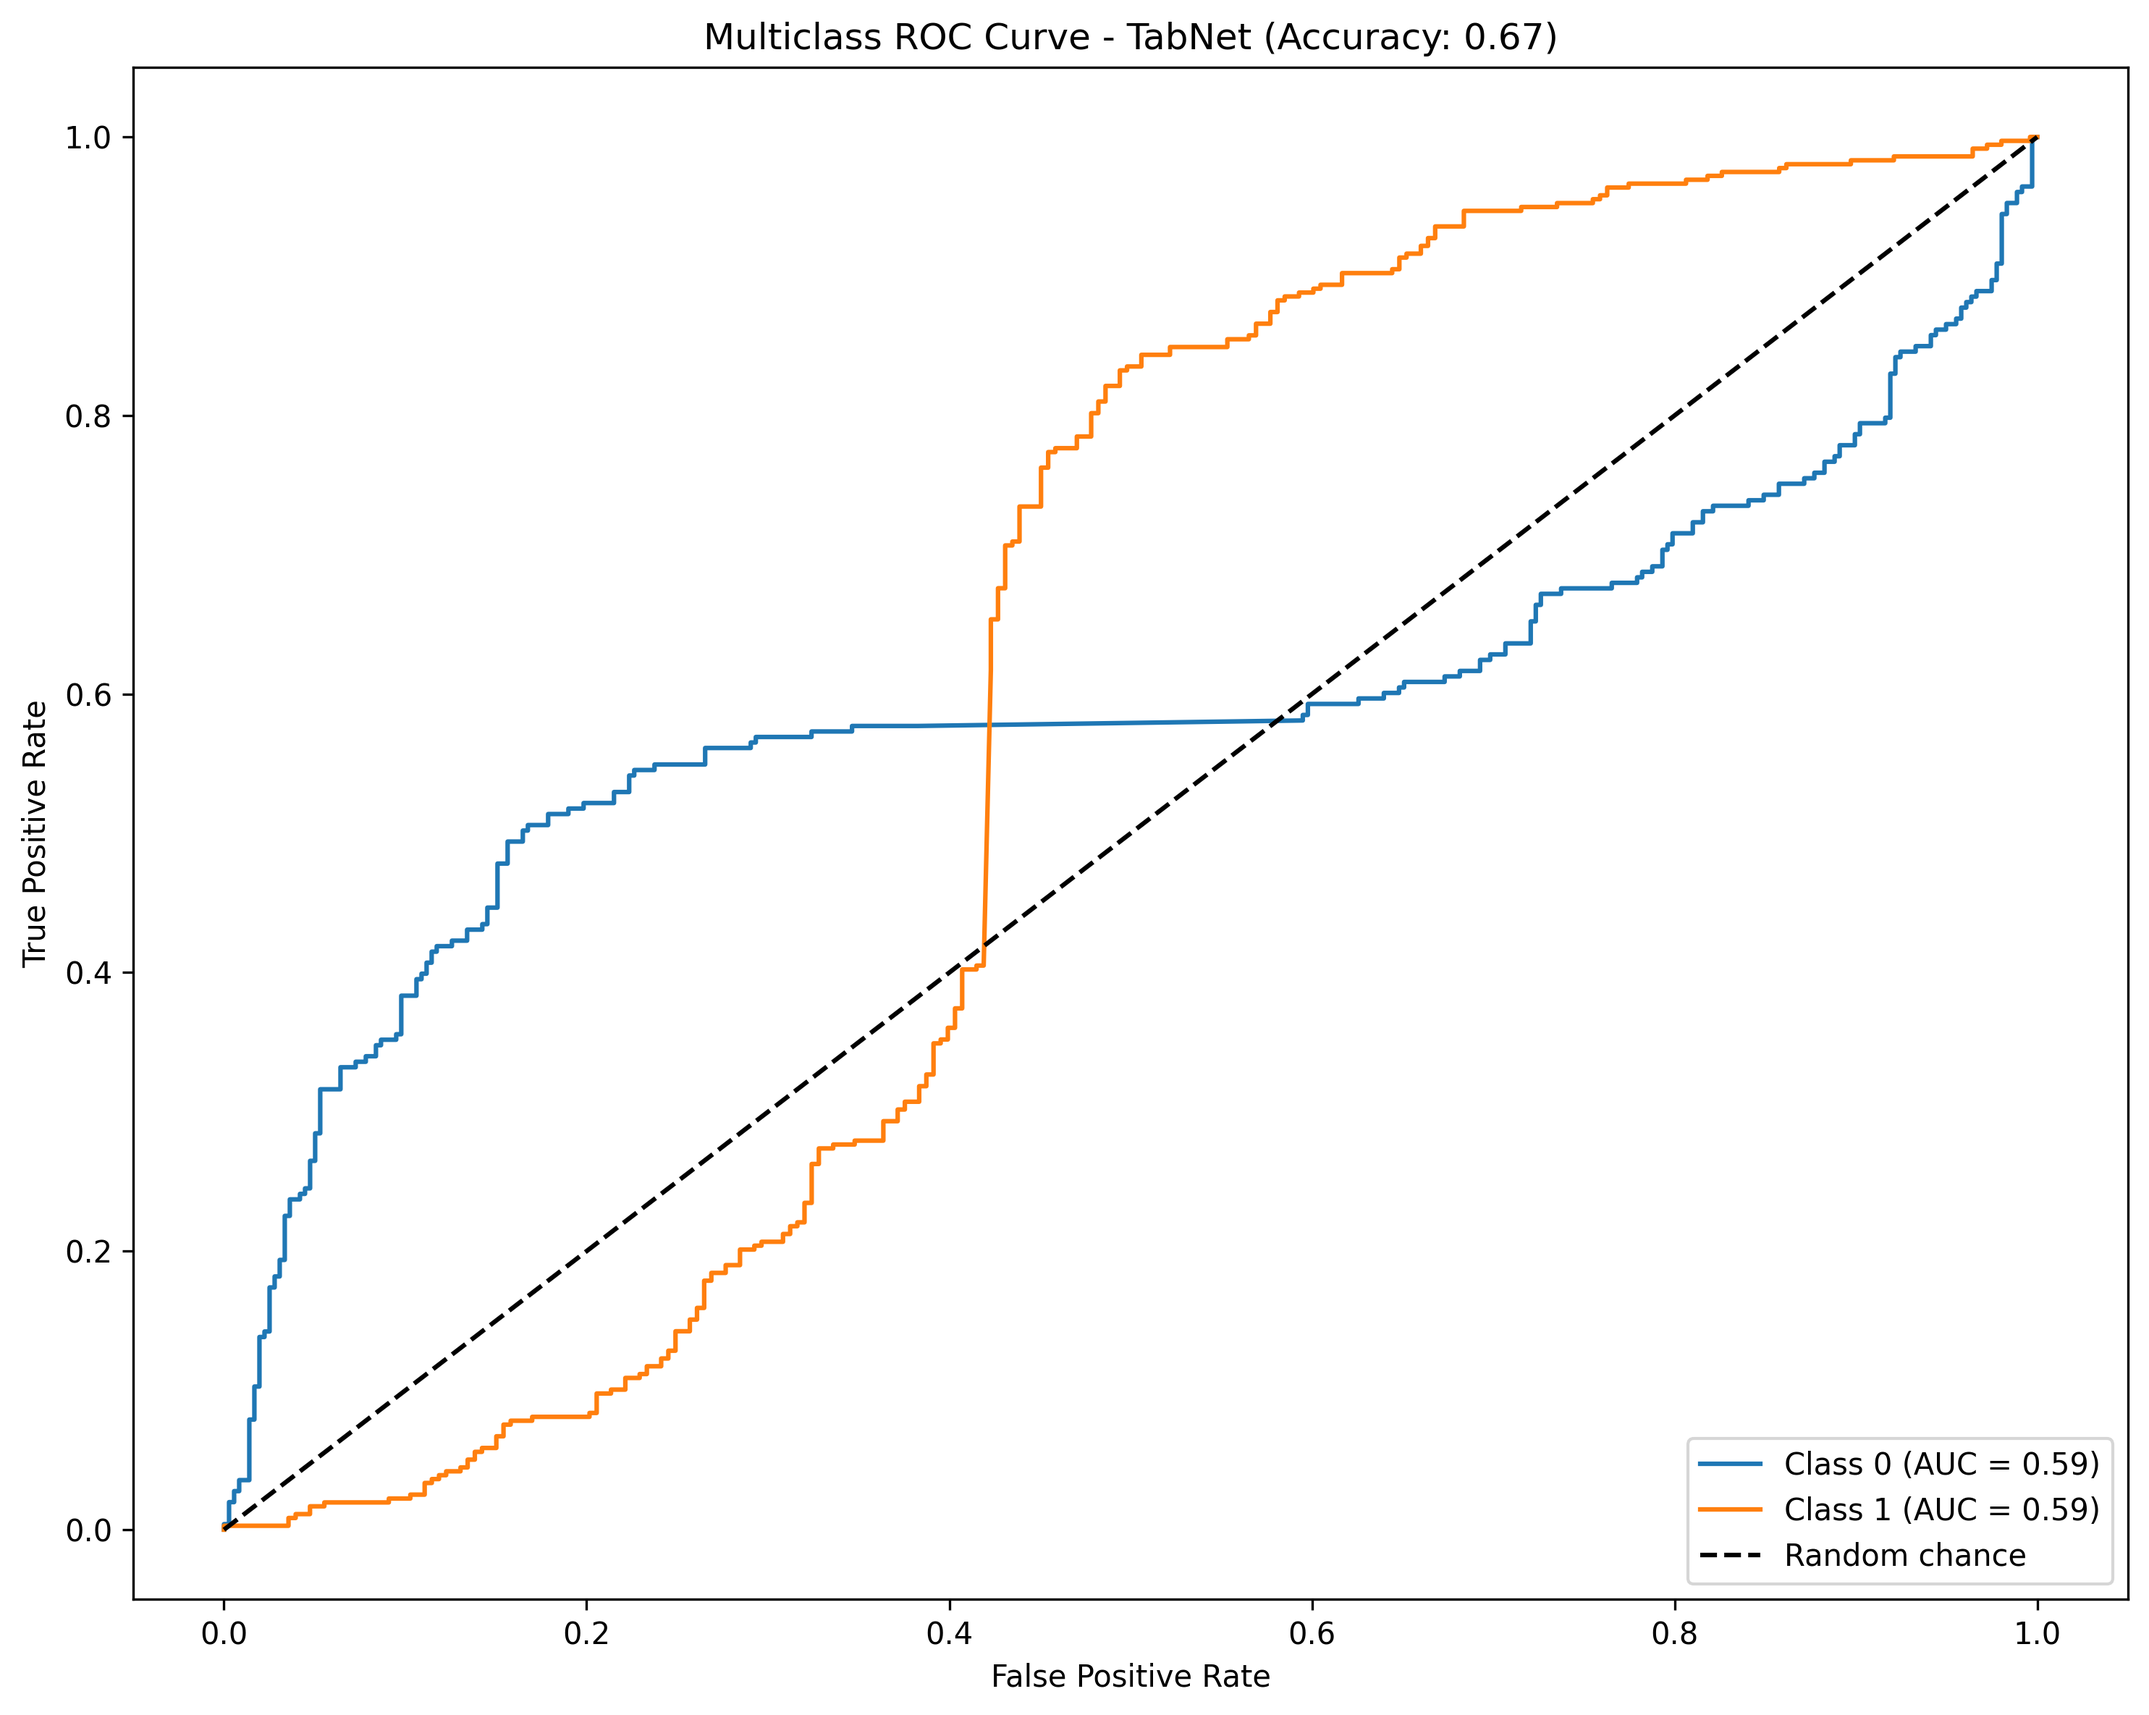
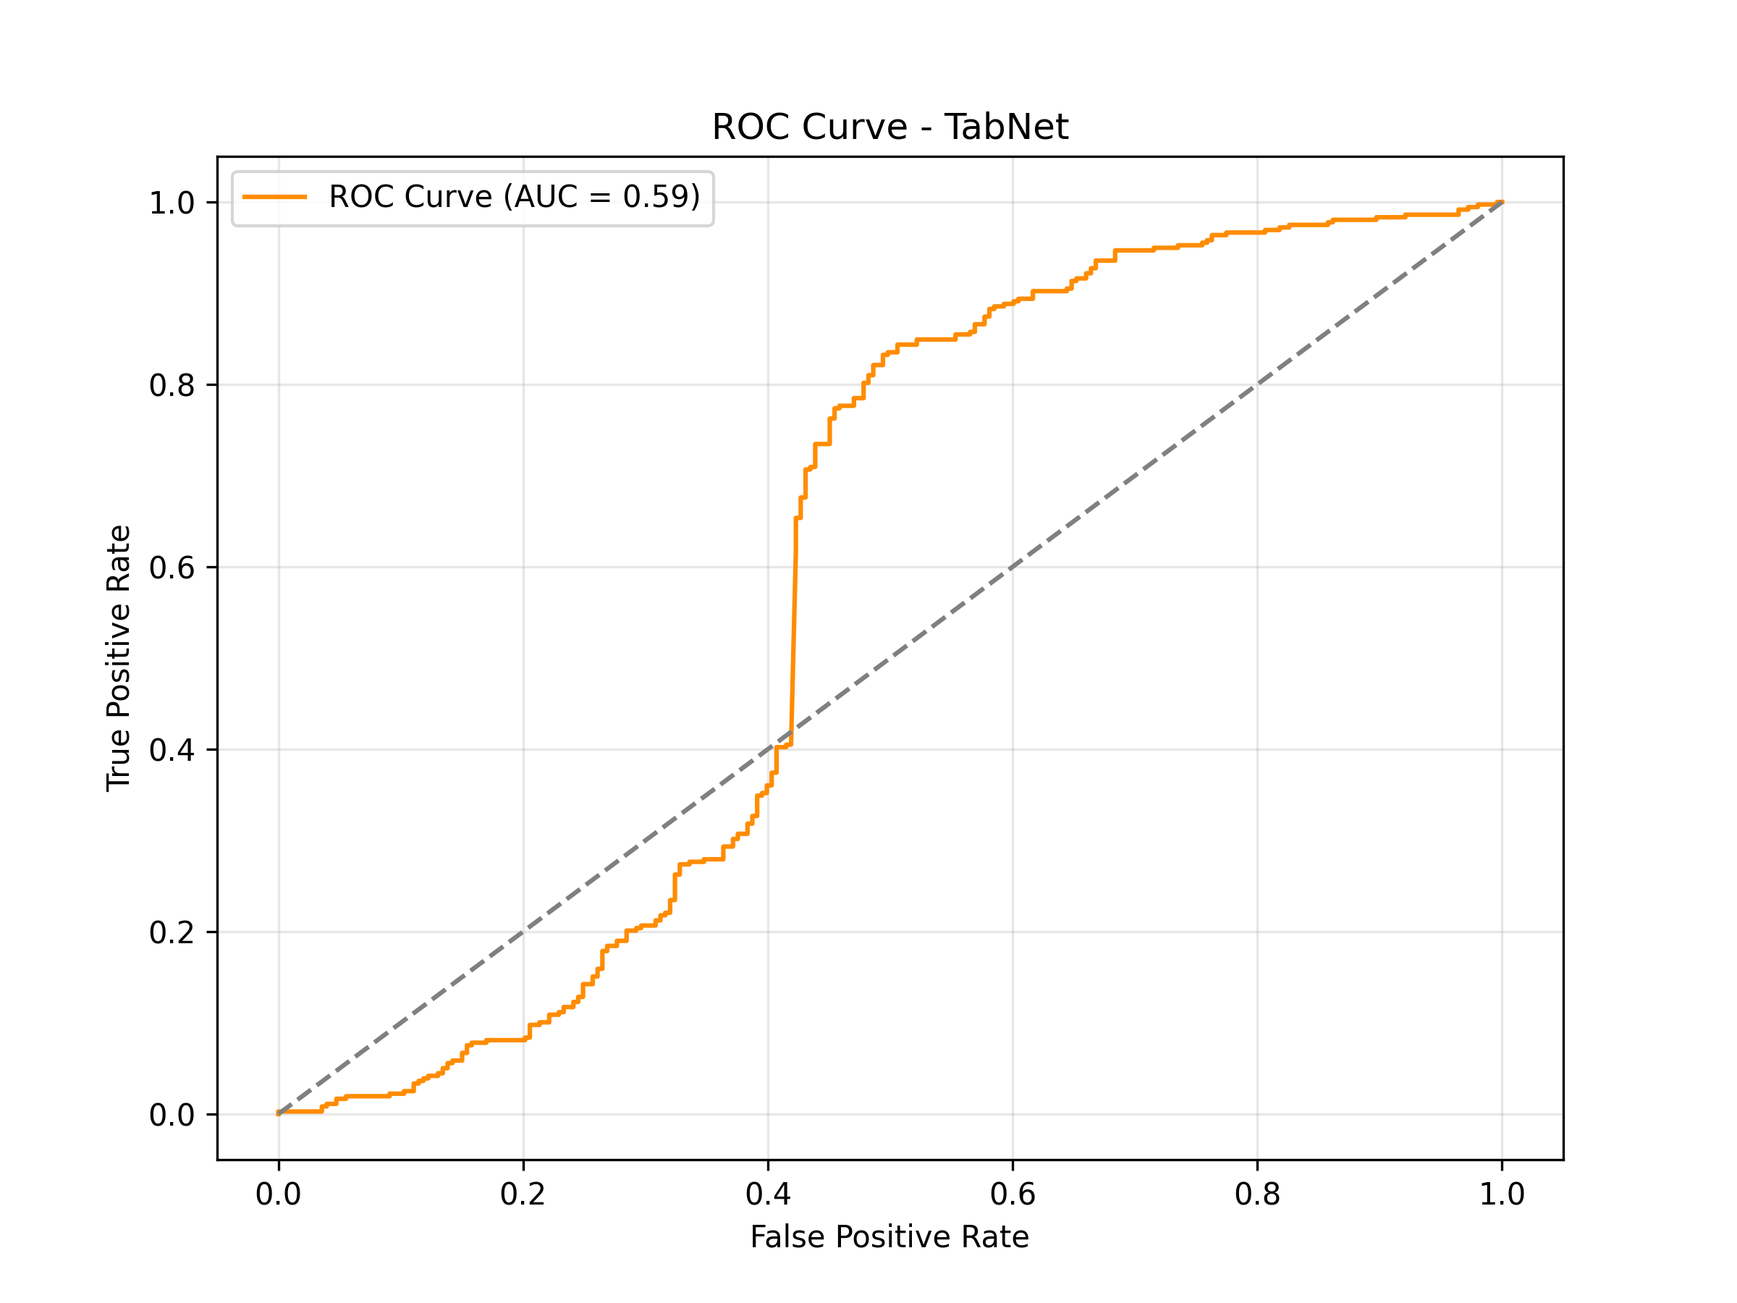
Tabnet gefixt!!

diff --git a/Capstone/Tabnet.py b/Capstone/Tabnet.py
@@ -31,15 +31,16 @@ def load_and_prepare_data():
 
     y = mutation_data['disease_name'].astype('category')
     le = LabelEncoder()
-    y = le.fit_transform(y)
+    y_encoded = le.fit_transform(y)
+    class_labels = le.classes_
 
     original_feature_names = X.columns.tolist()
 
     selector = SelectKBest(score_func=f_classif, k=2000)
-    X_new = selector.fit_transform(X, y)
+    X_new = selector.fit_transform(X, y_encoded)
     selected_feature_names = [original_feature_names[i] for i in selector.get_support(indices=True)]
 
-    return X_new, y, selected_feature_names
+    return X_new, y_encoded, selected_feature_names, class_labels
 
 def train_model(X, y, feature_names, k=25):
     X_train, X_test, y_train, y_test = train_test_split(X, y, test_size=0.3, random_state=48)
@@ -77,54 +78,72 @@ def train_model(X, y, feature_names, k=25):
         drop_last=False,
         weights=sample_weights
     )
+    return {
+        "model": clf,
+        "X_test_selected": X_test,
+        "y_test": y_test,
+        "selected_feature_names": feature_names,
+        "grid_search": None
+    }
 
-    y_pred = clf.predict(X_test)
-    acc = accuracy_score(y_test, y_pred)
-    print(f"Test accuracy: {acc:.3f}")
+def print_metrics(model, X_test_selected, y_test, grid_search):
+    y_pred = model.predict(X_test_selected)
+    print("Accuracy:", accuracy_score(y_test, y_pred))
+    print("\nClassification Report:\n", classification_report(y_test, y_pred))
 
-    y_pred = clf.predict(X_test)
-    ConfusionMatrixDisplay.from_predictions(y_test, y_pred).plot()
+def plot_confusion_matrix(model, X_test_selected, y_test, class_labels, outdir="visualizations"):
+    if not os.path.exists(outdir):
+        os.makedirs(outdir)
+    y_pred = model.predict(X_test_selected)
+    plt.figure(figsize=(6, 5))
+    ConfusionMatrixDisplay.from_predictions(
+        y_test, y_pred,
+        display_labels=class_labels,
+        cmap='Blues'
+    )
     plt.title("Confusion Matrix - TabNet")
-    plt.savefig("visualizations/tabnet_confusion_matrix.png")
-
-    feat_importances = clf.feature_importances_
-    feat_df = pd.DataFrame({'feature': feature_names, 'importance': feat_importances})
-    feat_df = feat_df.sort_values(by='importance', ascending=False)
-
-    plt.figure(figsize=(10, 8))
-    sns.barplot(x='importance', y='feature', data=feat_df.head(20))
-    plt.title('Tabnet: Top 20 Important Features')
-    plt.xlabel('Belang')
-    plt.ylabel('Feature')
-    plt.tight_layout()
-    plt.savefig('visualizations/tabnet_feature_importance_top20.png', dpi=300, bbox_inches='tight')
+    plt.savefig(f"{outdir}/tabnet_confusion_matrix.png", dpi=300, bbox_inches='tight')
     plt.close()
-    y_proba = clf.predict_proba(X_test)
-    n_classes = y_proba.shape[1]
 
-    fpr = dict()
-    tpr = dict()
-    roc_auc = dict()
-
-    for i in range(n_classes):
-        fpr[i], tpr[i], _ = roc_curve((y_test == i).astype(int), y_proba[:, i])
-        roc_auc[i] = roc_auc_score((y_test == i).astype(int), y_proba[:, i])
-
-    plt.figure(figsize=(10, 8))
-    for i in range(min(n_classes, 5)):
-        plt.plot(fpr[i], tpr[i], label=f"Class {i} (AUC = {roc_auc[i]:.2f})")
-    plt.plot([0, 1], [0, 1], 'k--', label='Random chance')
-    plt.xlabel("False Positive Rate")
-    plt.ylabel("True Positive Rate")
-    plt.title(f"Multiclass ROC Curve - TabNet (Accuracy: {acc:.2f})")
-    plt.legend(loc='lower right')
+def plot_feature_importance(model, feature_names, outdir="visualizations", top_n=15):
+    if not os.path.exists(outdir):
+        os.makedirs(outdir)
+    importances = model.feature_importances_
+    feat_imp = pd.Series(importances, index=feature_names).sort_values(ascending=False)
+    print("\nTop features:")
+    print(feat_imp.head(10))
+    plt.figure(figsize=(10, 6))
+    sns.barplot(x=feat_imp.head(top_n).values, y=feat_imp.head(top_n).index, palette='plasma')
+    plt.title(f"Top {top_n} Feature Importances - TabNet")
+    plt.xlabel("Importance Score")
+    plt.ylabel("Feature")
     plt.tight_layout()
-    plt.savefig("visualizations/tabnet_roc_curve.png", dpi=300, bbox_inches='tight')
+    plt.savefig(f"{outdir}/tabnet_feature_importance_top20.png", dpi=300)
     plt.close()
 
 
+def plot_roc_curve(model, X_test_selected, y_test, class_labels, outdir="visualizations"):
+    if not os.path.exists(outdir):
+        os.makedirs(outdir)
+    if len(class_labels) == 2:
+        y_prob = model.predict_proba(X_test_selected)[:, 1]
+        fpr, tpr, _ = roc_curve(y_test, y_prob)
+        auc_score = roc_auc_score(y_test, y_prob)
+        plt.figure(figsize=(8, 6))
+        plt.plot(fpr, tpr, label=f"ROC Curve (AUC = {auc_score:.2f})", color='darkorange')
+        plt.plot([0, 1], [0, 1], linestyle='--', color='gray')
+        plt.title("ROC Curve - TabNet")
+        plt.xlabel("False Positive Rate")
+        plt.ylabel("True Positive Rate")
+        plt.legend()
+        plt.grid(alpha=0.3)
+        plt.savefig(f"{outdir}/tabnet_roc_curve.png", dpi=300)
+        plt.close()
 
 if __name__ == "__main__":
-    X, y, names = load_and_prepare_data()
-    model_info = train_model(X, y, names)
-
+    X, y, feature_names, class_labels = load_and_prepare_data()
+    model_info = train_model(X, y, feature_names)
+    print_metrics(model_info["model"], model_info["X_test_selected"], model_info["y_test"], model_info["grid_search"])
+    plot_confusion_matrix(model_info["model"], model_info["X_test_selected"], model_info["y_test"], class_labels)
+    plot_feature_importance(model_info["model"], model_info["selected_feature_names"])
+    plot_roc_curve(model_info["model"], model_info["X_test_selected"], model_info["y_test"], class_labels)
